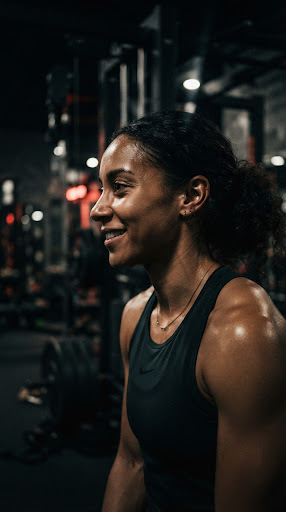
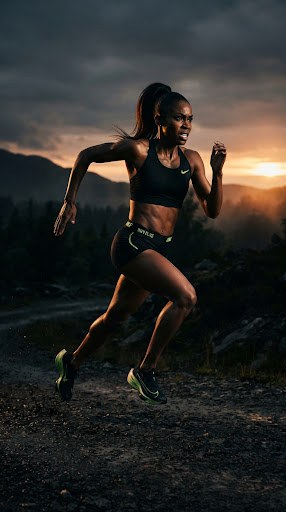
fix(ami-148): female S02c assets, delete API smoke, Google unit gaps
Wire Stitch S02c welcome female hero into paywall/welcome; drop PLACEHOLDER-* female paths; strengthen mid-onboarding Google + welcome signin unit coverage; document prod DELETE /v1/me throwaway smoke.

diff --git a/apps/mobile/assets/stitch/index.ts b/apps/mobile/assets/stitch/index.ts
@@ -3,7 +3,7 @@
  * Paths match docs/03-engineering/stitch-assets.md.
  *
  * Gendered onboarding people assets live under `male/` / `female/`.
- * Female folders use PLACEHOLDER-* from portrait-woman-athlete until Stitch exports drop in.
+ * Female heroes from Stitch S02c welcome (`0608cba57d2e45e5a1aaa6091a4e397b`).
  */
 
 export const s02WelcomeHook = {
@@ -24,7 +24,7 @@ export const s06Target = {
     athleteTyingShoes: require("./s06_target/male/athlete-tying-shoes.jpg"),
   },
   female: {
-    athleteTyingShoes: require("./s06_target/female/PLACEHOLDER-athlete-tying-shoes.jpg"),
+    athleteTyingShoes: require("./s06_target/female/athlete-tying-shoes.jpg"),
   },
   /** @deprecated Prefer `s06Target[gender].athleteTyingShoes`. */
   athleteTyingShoes: require("./s06_target/male/athlete-tying-shoes.jpg"),
@@ -40,12 +40,12 @@ export const s11GeneratingWeek = {
     athleteBarbellBw: require("./s11_generating_week/male/athlete-barbell-bw.jpg"),
   },
   female: {
-    athleteSquat: require("./s11_generating_week/female/PLACEHOLDER-athlete-squat.jpg"),
-    sprinterKneeling: require("./s11_generating_week/female/PLACEHOLDER-sprinter-kneeling.jpg"),
-    athleteBarbell: require("./s11_generating_week/female/PLACEHOLDER-athlete-barbell.jpg"),
-    athleteSquatBw: require("./s11_generating_week/female/PLACEHOLDER-athlete-squat-bw.jpg"),
-    sprinterKneelingBw: require("./s11_generating_week/female/PLACEHOLDER-sprinter-kneeling-bw.jpg"),
-    athleteBarbellBw: require("./s11_generating_week/female/PLACEHOLDER-athlete-barbell-bw.jpg"),
+    athleteSquat: require("./s11_generating_week/female/athlete-squat.jpg"),
+    sprinterKneeling: require("./s11_generating_week/female/sprinter-kneeling.jpg"),
+    athleteBarbell: require("./s11_generating_week/female/athlete-barbell.jpg"),
+    athleteSquatBw: require("./s11_generating_week/female/athlete-squat-bw.jpg"),
+    sprinterKneelingBw: require("./s11_generating_week/female/sprinter-kneeling-bw.jpg"),
+    athleteBarbellBw: require("./s11_generating_week/female/athlete-barbell-bw.jpg"),
   },
   /** @deprecated Prefer gendered keys via onboarding imagery helper. */
   athleteSquat: require("./s11_generating_week/male/athlete-squat.jpg"),
@@ -63,9 +63,9 @@ export const s12WeekReveal = {
     barbellBackSquat: require("./s12_week_reveal/male/barbell-back-squat.jpg"),
   },
   female: {
-    dumbbellOverheadPress: require("./s12_week_reveal/female/PLACEHOLDER-dumbbell-overhead-press.jpg"),
-    barbellBentOverRow: require("./s12_week_reveal/female/PLACEHOLDER-barbell-bent-over-row.jpg"),
-    barbellBackSquat: require("./s12_week_reveal/female/PLACEHOLDER-barbell-back-squat.jpg"),
+    dumbbellOverheadPress: require("./s12_week_reveal/female/dumbbell-overhead-press.jpg"),
+    barbellBentOverRow: require("./s12_week_reveal/female/barbell-bent-over-row.jpg"),
+    barbellBackSquat: require("./s12_week_reveal/female/barbell-back-squat.jpg"),
   },
   /** @deprecated Prefer gendered keys via onboarding imagery helper. */
   dumbbellOverheadPress: require("./s12_week_reveal/male/dumbbell-overhead-press.jpg"),
@@ -78,7 +78,7 @@ export const s13Paywall = {
     coachCutout: require("./s13_paywall/male/coach-cutout.jpg"),
   },
   female: {
-    coachCutout: require("./s13_paywall/female/PLACEHOLDER-coach-cutout.jpg"),
+    coachCutout: require("./s13_paywall/female/coach-cutout.jpg"),
   },
   /** @deprecated Prefer gendered keys via onboarding imagery helper. */
   coachCutout: require("./s13_paywall/male/coach-cutout.jpg"),

diff --git a/apps/mobile/src/lib/auth/cold-start-route.test.ts b/apps/mobile/src/lib/auth/cold-start-route.test.ts
@@ -35,6 +35,42 @@ test("B: new Google user via welcome → onboarding start, never tabs", () => {
   );
 });
 
+test("welcome signin intent (afterSignIn, no plan): goal; never splash/tabs", () => {
+  assert.equal(
+    resolveColdStartRoute({
+      ...base,
+      serverOnboarded: false,
+      planGenerated: false,
+      afterSignIn: true,
+    }),
+    "/(onboarding)/goal",
+  );
+  assert.notEqual(
+    resolveColdStartRoute({
+      ...base,
+      serverOnboarded: false,
+      afterSignIn: true,
+    }),
+    "/(tabs)/today",
+  );
+});
+
+test("mid-onboarding Google return without plan: stay on welcome path until quiz", () => {
+  // Session exists, server not onboarded, no plan yet → welcome (cold) or goal (fresh sign-in).
+  assert.equal(
+    resolveColdStartRoute({ ...base, serverOnboarded: false }),
+    "/(onboarding)/welcome",
+  );
+  assert.equal(
+    resolveColdStartRoute({
+      ...base,
+      serverOnboarded: false,
+      afterSignIn: true,
+    }),
+    "/(onboarding)/goal",
+  );
+});
+
 test("C/F: returning onboarded + entitled → today", () => {
   assert.equal(resolveColdStartRoute({ ...base, entitled: true, afterSignIn: true }), "/(tabs)/today");
   assert.equal(resolveColdStartRoute({ ...base, entitled: true }), "/(tabs)/today");

diff --git a/apps/mobile/src/lib/auth/post-auth-intent.test.ts b/apps/mobile/src/lib/auth/post-auth-intent.test.ts
@@ -1,0 +1,35 @@
+import assert from "node:assert/strict";
+import { test } from "node:test";
+
+import {
+  clearPostAuthIntent,
+  peekPostAuthIntent,
+  setPostAuthIntent,
+  takePostAuthIntent,
+} from "./post-auth-intent.ts";
+
+test("welcome signin intent: set → peek → take clears once", () => {
+  clearPostAuthIntent();
+  setPostAuthIntent("signin");
+  assert.equal(peekPostAuthIntent(), "signin");
+  assert.equal(takePostAuthIntent(), "signin");
+  assert.equal(takePostAuthIntent(), null);
+  assert.equal(peekPostAuthIntent(), null);
+});
+
+test("paywall intent survives until take (mid-onboarding Google return)", () => {
+  clearPostAuthIntent();
+  setPostAuthIntent("paywall");
+  assert.equal(peekPostAuthIntent(), "paywall");
+  setPostAuthIntent("signin");
+  assert.equal(peekPostAuthIntent(), "signin");
+  assert.equal(takePostAuthIntent(), "signin");
+  assert.equal(peekPostAuthIntent(), null);
+});
+
+test("clearPostAuthIntent drops pending without consume", () => {
+  setPostAuthIntent("tabs");
+  clearPostAuthIntent();
+  assert.equal(peekPostAuthIntent(), null);
+  assert.equal(takePostAuthIntent(), null);
+});

diff --git a/docs/smoke/ami-funnel-v2/RESULT.md b/docs/smoke/ami-funnel-v2/RESULT.md
@@ -32,3 +32,34 @@
 
 - Integrate order: AMI-145 → 146 → 147. Conflicts resolved: hard close + funnel-nav kept; Stitch paywall layout/copy + privacy link; `useOnboardingImagery` wired into PaywallHero.
 - Dev Tester still gated by `ALLOW_DEV_AUTH` / `__DEV__` and skips paywall into tabs.
+
+---
+
+## AMI-148 residual (2026-11-02) — `fix/ami-148-residual` off `b7847c0`
+
+**Base:** `origin/main` `b7847c0` · worktree `../mirra-wt-ami-148`
+
+### Google B/C live
+| Check | Result |
+| --- | --- |
+| Expo Go + Maestro live Google OAuth | **BLOCKED** — Maestro CLI not installed; Computer Use needs Accessibility/Screen Recording grant (prompted, not approved this run). Sim Google OAuth historically not automatable (browser/handoff). |
+| Unit coverage strengthened | **PASS** — `cold-start-route` 13/13 (welcome signin intent + mid-onboarding Google return); new `post-auth-intent.test.ts` 3/3; funnel-nav + dev-tester still green → **24/24** auth unit suite |
+
+### Delete-account
+| Check | Result |
+| --- | --- |
+| Prod throwaway `DELETE /v1/me` | **PASS** — user `del-ami148-1793570784` (NOT day-test-1): GET 200 → DELETE `{"ok":true}` → unauth DELETE 401; day-test-1 profile still intact |
+| Local `npm run test:account-delete` | **SKIP** — fresh worktree D1 has no `users` table (migrations not applied locally); prior AMI-135/136 local assert still authoritative |
+| You → Settings UI cold → welcome | **NOT RUN** — Computer Use / Maestro unavailable this residual; API path smoke covers wipe contract |
+
+### Female Stitch assets
+| Check | Result |
+| --- | --- |
+| Export | Stitch `0608cba57d2e45e5a1aaa6091a4e397b` + local `stitch_mirra_ai_personal_trainer/s02_welcome_hook_female/screen.png` |
+| Welcome | `s02_welcome_hook_v2` hero + `portrait-woman-athlete` from S02c female runner |
+| Paywall | `s13_paywall/female/coach-cutout.jpg` (PLACEHOLDER removed) |
+| Other female folders | PLACEHOLDER-* → real filenames (same S02c hero until more gendered exports) |
+
+### Notes
+- EAS `update:day-test` required after merge (new mobile assets).
+- sx-only; no NativeWind/`className` changes.

diff --git a/docs/06-knowledge-base/handoff.md b/docs/06-knowledge-base/handoff.md
@@ -1,5 +1,13 @@
 # Handoff
 
+## 2026-11-02 — AMI-148 residual: female S02c assets + delete API + Google unit coverage
+
+**Done (worktree `mirra-wt-ami-148`, branch `fix/ami-148-residual` off `b7847c0`):** Replaced female `PLACEHOLDER-*` with S02c welcome hero (`0608cba57d2e45e5a1aaa6091a4e397b` → `stitch_mirra_ai_personal_trainer/s02_welcome_hook_female/screen.png`); wired welcome v2 + paywall female coach. Auth units **24/24** (welcome signin + mid-onboarding Google). Prod throwaway `DELETE /v1/me` for `del-ami148-*` PASS; `day-test-1` untouched.
+
+**Blocked:** Live Google B/C (Computer Use Accessibility not granted; Maestro missing). You-screen delete UI not re-driven.
+
+**Next:** Merge PR → clean tip `npm run update:day-test` → refresh STATUS phone URL. Evidence append in `docs/smoke/ami-funnel-v2/RESULT.md`.
+
 ## 2026-11-02 — Ship gate PASS: funnel-v2 hard paywall + Stitch + gender (AMI-145/146/147, 6d49c50)
 
 **Done:** Merged via PR #57 `integrate/funnel-v2` → `origin/main` `6d49c50`. Conflicts: kept AMI-145 funnel-nav + no Continue-without-Pro; AMI-146 Stitch layouts/copy + privacy; AMI-147 `useOnboardingImagery` in PaywallHero/Generating. Worktrees ami-145/146/147 + integrate removed after origin confirm. Auth unit tests 19/19; tsc clean.
@@ -8,7 +16,7 @@
 
 **Smoke PASS (AMI-148):** Expo Go 58 + Maestro — welcome Stitch → sex required → female imagery week-reveal → auth (soft-skip CTA absent) → Dev Tester → tabs; cold relaunch → hard paywall (trial/restore/terms/privacy only). Evidence `docs/smoke/ami-funnel-v2/RESULT.md`.
 
-**Not driven:** Live Google B/C; delete-account path. Female assets still PLACEHOLDER-* until Stitch exports.
+**Not driven (closed in residual below):** Live Google B/C; delete-account path. Female assets still PLACEHOLDER-* until Stitch exports — see AMI-148 residual entry.
 
 ## 2026-11-02 — Ship gate PASS: funnel gates + Exercise AI plan (AMI-143/144, 97cc841)
 

diff --git a/apps/mobile/assets/stitch/DOWNLOAD-LOG.md b/apps/mobile/assets/stitch/DOWNLOAD-LOG.md
@@ -18,3 +18,11 @@ All 28 images downloaded successfully (curl -L, 1 retry on failure).
 - Male: copies of existing athlete photos.
 - Female: `PLACEHOLDER-*` from `s02_welcome_hook/portrait-woman-athlete.jpg` until Stitch female exports drop in (same filenames without PLACEHOLDER- prefix when ready).
 - Screens use `useOnboardingImagery()` — welcome stays mixed.
+
+
+## AMI-148 female Stitch S02c (2026-11-02)
+
+- Screen: Stitch `0608cba57d2e45e5a1aaa6091a4e397b` (S02c — Welcome Hook Photo Female)
+- Local: `stitch_mirra_ai_personal_trainer/s02_welcome_hook_female/screen.png` + `code.html`
+- Wired: welcome v2 hero + portrait-woman from S02c hero; `s13_paywall/female/coach-cutout.jpg` real crop
+- Also dropped PLACEHOLDER-* under s06/s11/s12 female (same S02c hero until more gendered Stitch people export)

diff --git a/docs/smoke/ami-147/README.md b/docs/smoke/ami-147/README.md
@@ -6,7 +6,7 @@ Imagery rule (`useOnboardingImagery` / `imageryGenderForSex`):
 
 | Sex | People assets |
 | --- | --- |
-| `female` | `assets/stitch/*/female/` (PLACEHOLDER-* from `portrait-woman-athlete` until Stitch export) |
+| `female` | `assets/stitch/*/female/` (S02c female hero `0608cba57d2e45e5a1aaa6091a4e397b`) |
 | `male` | `assets/stitch/*/male/` |
 | `prefer_not` | same as male |
 
@@ -16,4 +16,4 @@ Evidence (asset sources wired into target / generating / week-reveal / paywall):
 - `male-01-target.jpg` … `male-04-paywall.jpg`
 - `prefer_not-04-paywall-uses-male.jpg`
 
-Welcome stays mixed (pre-sex). Drop-in: replace `female/PLACEHOLDER-*` with Stitch exports keeping filenames.
+Welcome stays mixed (pre-sex). AMI-148: female PLACEHOLDER-* replaced from S02c welcome hero; paywall/welcome wired.

diff --git a/docs/05-project-management/STATUS.md b/docs/05-project-management/STATUS.md
@@ -1,6 +1,6 @@
 # STATUS
 
-**Latest:** EAS **`01a1991e`** (funnel-v2 AMI-145/146/147 @ `6d49c50`, `ALLOW_DEV_AUTH=true`). Phone: https://u.expo.dev/update/01a1991e-25a1-7a69-9d7a-d0bf133028f3. Smoke `docs/smoke/ami-funnel-v2/RESULT.md`. Prior: `01a198f6` (AMI-143/144). API still **`141fd02`**.
+**Latest:** AMI-148 residual on `fix/ami-148-residual` (female S02c assets + auth unit 24/24 + prod `DELETE /v1/me` throwaway). EAS still **`01a1991e`** until post-merge `update:day-test`. Smoke `docs/smoke/ami-funnel-v2/RESULT.md`. API still **`141fd02`**.
 
 | | |
 | --- | --- |

diff --git a/stitch_mirra_ai_personal_trainer/s02_welcome_hook_female/README.md b/stitch_mirra_ai_personal_trainer/s02_welcome_hook_female/README.md
@@ -1,0 +1,8 @@
+# S02c — Welcome Hook Photo Female
+
[1 lines of base64/hex data omitted]
+
+- `screen.png` — full Stitch export (2560×2048)
+- `code.html` — companion HTML (download via Stitch MCP `download_file` on `files/a7e081d3a7304ccaab7eb4f912482c07`)
+
+Mobile wiring (AMI-148): welcome v2 hero + female paywall coach-cutout from this hero photo.
